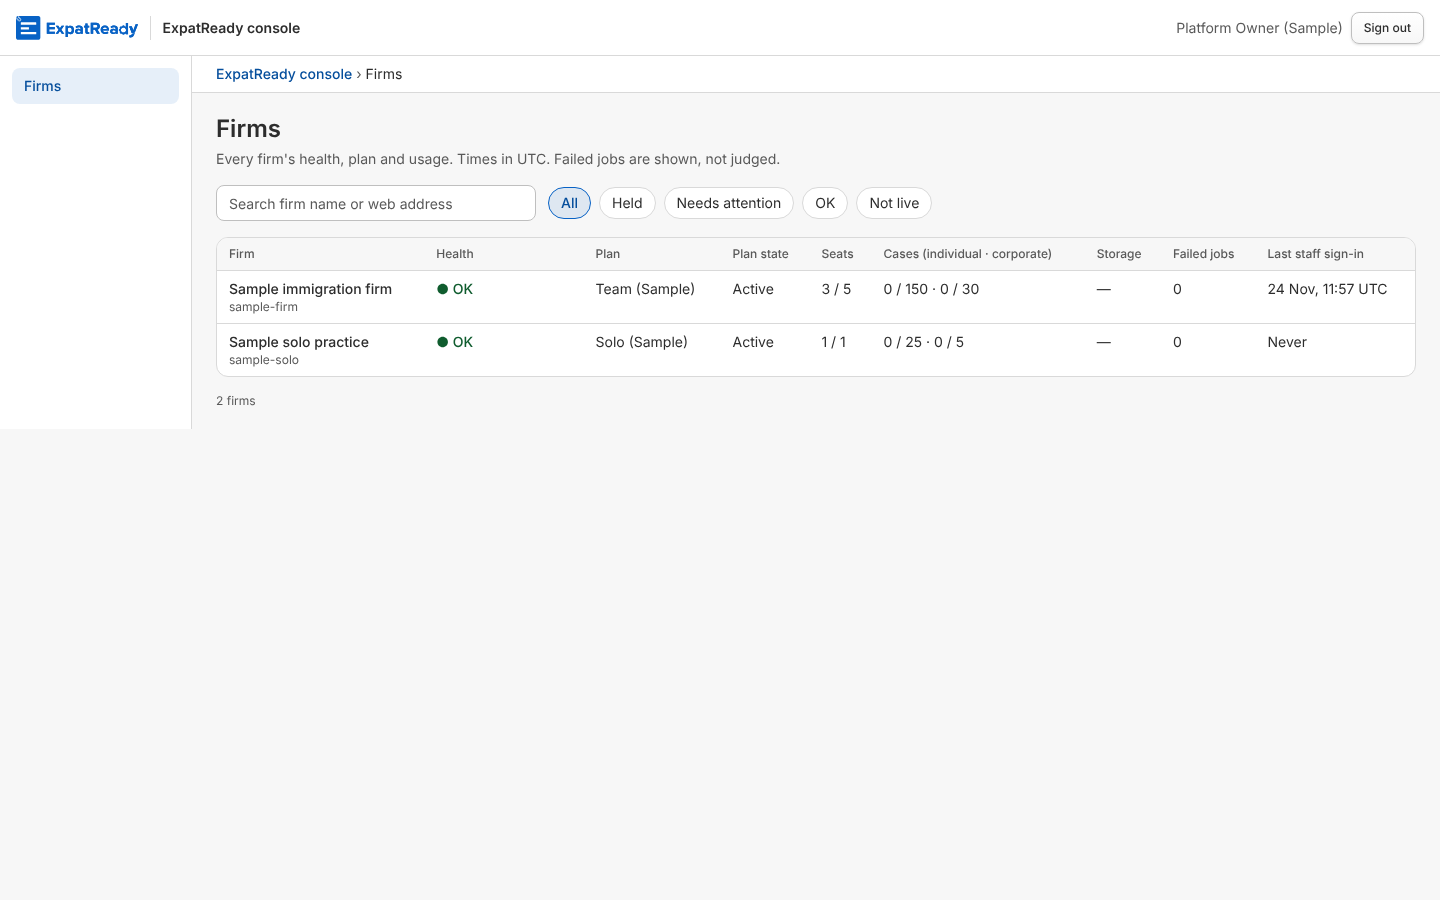
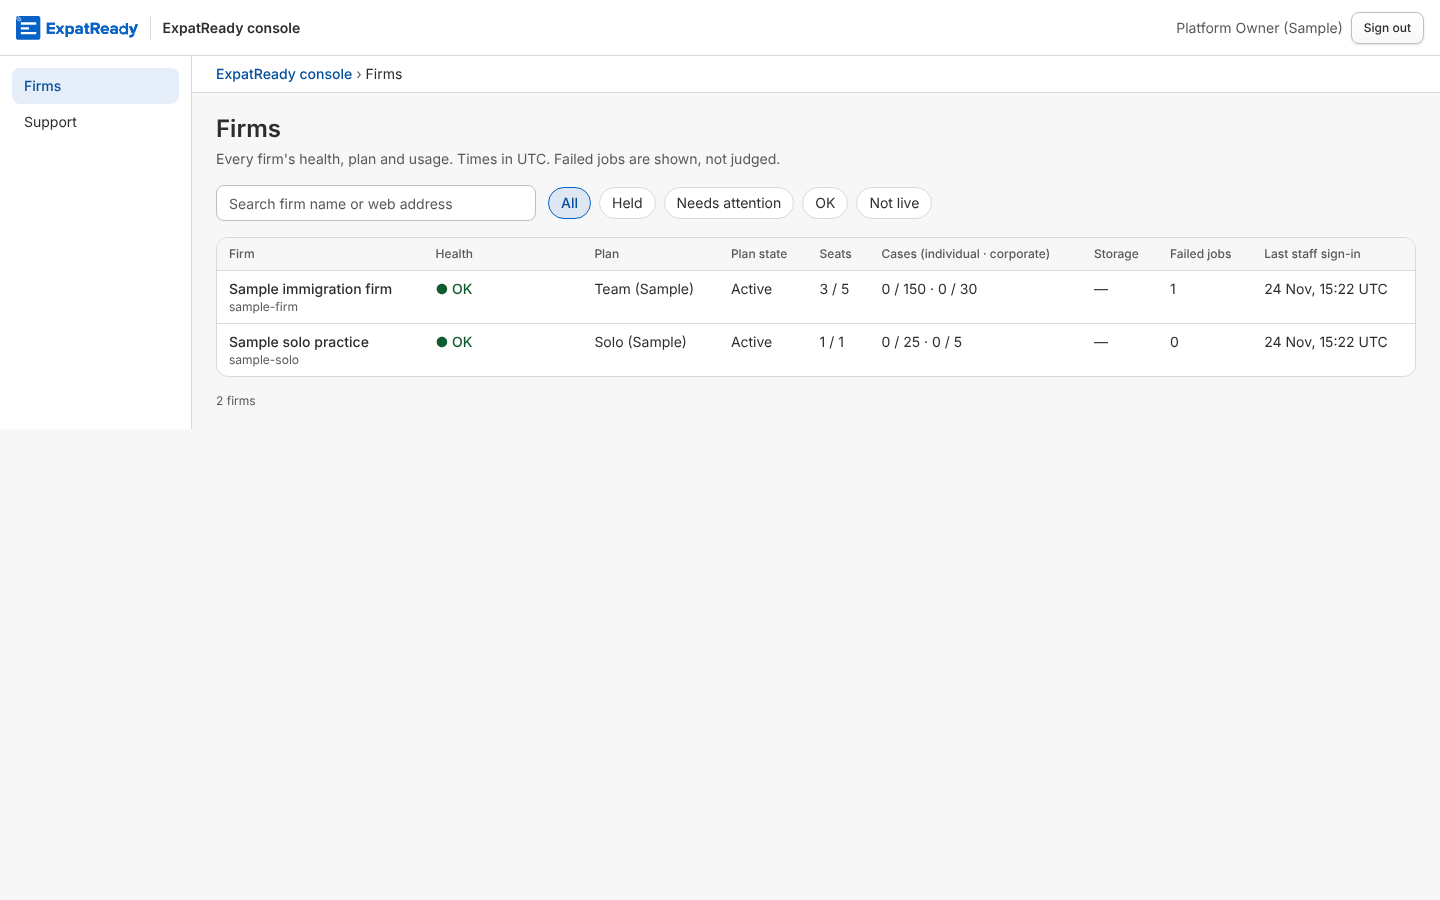
runtime: R1.93 — PF-17 part 4 PR C: our console's Support page and ticket panel (/system/support)
The queue in the server's order with each firm's name and live plan (Lead 15), status chips and a firm filter; a
row opens its ticket's side panel (thread in order, firm and plan in its header) with our reply, read-only on a
closed ticket or without the manage key; Support in the console's menu by system/support:list.
check_pf17_support_browser.ts 17/17 twice; check_pf17_console_browser 32/32; j_93 24/24; scan-logs clean.

Claude-Session: https://claude.ai/code/session_01MXNda7wnHWoWJS99ZAQcYL

diff --git a/ai-workers/problem-1-pathway-setup-and-form-filling/prototype/studio/web/src/modules/system/support-page.tsx b/ai-workers/problem-1-pathway-setup-and-form-filling/prototype/studio/web/src/modules/system/support-page.tsx
@@ -1,0 +1,116 @@
+// PF-17 part 4 PR C (R1.93; concept r2 §4d, §4e, BR-1, BR-5 to BR-7; SA-10 §3.2, §3.4; Lead 15 on #3225; j_93 W4): our
+// console's Support page. One queue of every firm's "?" tickets read from PF-17 part 2's `GET /api/system/support/tickets`
+// in the server's order (waiting on us first, the longest waiting first; the page never re-sorts), each row with its
+// firm's name and live plan (part 4's `firm.plan`, the Firms page's own source). Status chips (`?status=`), a firm filter
+// from a row's firm name (`?firm=`). A row opens the ticket's side panel (`?ticket=`, so it reopens from the address):
+// the thread in order and our reply (PF-18b's replyAsSupport through part 2's route), read-only on a closed ticket or
+// without the manage key. Internal notes, assignment and priority are not built (part 2).
+import * as React from "react";
+import { useSearchParams } from "react-router-dom";
+import { keepPreviousData, useQuery, useQueryClient } from "@tanstack/react-query";
+import { Button, Notice, Panel, Table, Textarea } from "@/components/ui/controls";
+import { cn } from "@/lib/utils";
+import { ageWords, momentWords, QueuePage, queueQuery, QueueTicket, STATUS_CHIPS, STATUS_WORDS, SUPPORT_COPY, SUPPORT_MANAGE_KEY, type QueueItem } from "./contract";
+import { SystemFrame, useSystemStaff } from "./frame";
+import { systemApi, SystemApiError, useSystemToken } from "./session";
+
+const fieldWords = (e: SystemApiError) => `${e.message}${e.problem.fields ? ` ${Object.entries(e.problem.fields).map(([k, v]) => `${k}: ${v}`).join("; ")}` : ""}`;
+
+function TicketPanel({ id, onClose, returnFocus }: { id: string | null; onClose: () => void; returnFocus: () => HTMLElement | null }) {
+  const token = useSystemToken(), me = useSystemStaff(), qc = useQueryClient();
+  const t = useQuery({ queryKey: ["sys", "ticket", id, token], enabled: !!token && !!id, retry: false, queryFn: async () => QueueTicket.parse(await systemApi(`/support/tickets/${id}`)) });
+  const [body, setBody] = React.useState(""), [busy, setBusy] = React.useState(false), [error, setError] = React.useState<string | null>(null);
+  React.useEffect(() => { setBody(""); setError(null); }, [id]);
+  const send = async (e: React.FormEvent) => {
+    e.preventDefault(); setBusy(true); setError(null);
+    try {
+      const after = QueueTicket.parse(await systemApi(`/support/tickets/${id}/replies`, { method: "POST", json: { body } }));
+      qc.setQueryData(["sys", "ticket", id, token], after); setBody("");
+      await qc.invalidateQueries({ queryKey: ["sys", "queue"] });   // the row follows (its status and last activity)
+    } catch (x) { setError(x instanceof SystemApiError ? fieldWords(x) : "Could not send the reply. Please try again."); }
+    finally { setBusy(false); }
+  };
+  const d = t.data, now = Date.now();
+  const canReply = me.keys.includes(SUPPORT_MANAGE_KEY);
+  return (
+    <Panel open={!!id} onOpenChange={(o) => { if (!o) onClose(); }} returnFocus={returnFocus} title={d?.subject ?? "Support ticket"}
+      description={d ? <span data-ticket-head>{d.firm.name} · {d.firm.plan?.name ?? SUPPORT_COPY.noPlan} · {STATUS_WORDS[d.status]} · {ageWords(d.createdAt, now)} old · raised on {d.page}</span> : undefined}>
+      {t.isError ? <Notice tone="danger" title="Not available"><span>{t.error instanceof SystemApiError ? t.error.message : SUPPORT_COPY.loadFailed}</span></Notice>
+        : !d ? <p role="status" className="text-sm text-text-muted">Loading the ticket…</p>
+          : <div className="flex flex-col gap-4">
+            <ol className="flex flex-col gap-3" aria-label="Messages">
+              {d.messages.map((m) => <li key={m.id} className={cn("rounded-lg border border-border p-3 text-sm", m.authorKind === "SUPPORT" && "bg-primary/5")}>
+                <p className="text-xs text-text-muted">{m.authorName ?? (m.authorKind === "SUPPORT" ? "ExpatReady support" : "A firm user")} · {momentWords(m.createdAt)}</p>
+                <p className="mt-1 whitespace-pre-wrap [overflow-wrap:anywhere]">{m.body}</p>
+                {m.files.length ? <p className="mt-1 text-xs text-text-muted">{m.files.length} {m.files.length === 1 ? "file" : "files"} attached</p> : null}</li>)}
+            </ol>
+            {d.status === "CLOSED" ? <Notice tone="info"><span data-reply-closed>{SUPPORT_COPY.closed}</span></Notice>
+              : !canReply ? <Notice tone="info"><span data-reply-no-manage>{SUPPORT_COPY.noManage}</span></Notice>
+                : <form className="flex flex-col gap-2" onSubmit={send} noValidate>
+                  <label htmlFor="sys-reply" className="text-sm font-medium">{SUPPORT_COPY.replyLabel}</label>
+                  <Textarea id="sys-reply" rows={4} value={body} onChange={(e) => setBody(e.target.value)} aria-invalid={error ? true : undefined} aria-describedby={error ? "sys-reply-error" : undefined} />
+                  {error ? <p id="sys-reply-error" role="alert" className="text-sm text-text-danger" data-reply-error>{error}</p> : null}
+                  <Button type="submit" busy={busy} className="self-end max-sm:min-h-11">Send reply</Button>
+                </form>}
+          </div>}
+    </Panel>
+  );
+}
+
+function SupportBody() {
+  const token = useSystemToken();
+  const [params, setParams] = useSearchParams();
+  const query = queueQuery(params);
+  const list = useQuery({ queryKey: ["sys", "queue", query, token], enabled: !!token, retry: false, placeholderData: keepPreviousData, queryFn: async () => QueuePage.parse(await systemApi(`/support/tickets${query}`)) });
+  const put = React.useCallback((k: string, v: string | null) => setParams((old) => { const p = new URLSearchParams(old); if (v) p.set(k, v); else p.delete(k); if (k !== "page" && k !== "ticket") p.delete("page"); return p; }), [setParams]);
+  const opener = React.useRef<HTMLElement | null>(null);
+  const status = params.get("status"), firm = params.get("firm"), ticket = params.get("ticket");
+  const d = list.data, now = Date.now();
+  if (!d && !list.isError) return <p role="status" className="text-sm text-text-muted" data-loading>Loading the support queue…</p>;
+  const refused = list.error instanceof SystemApiError ? list.error : null;
+  const title = <header><h1 className="text-2xl font-semibold">Support</h1>
+    <p className="mt-1 text-sm text-text-muted">Every firm's tickets, the longest waiting on us first. Times in UTC.</p></header>;
+  if (refused?.status === 403) return <div className="mx-auto flex max-w-7xl flex-col gap-4">{title}<Notice tone="danger" title="Not available"><span data-support-error>{refused.message}</span></Notice></div>;
+  const firmName = firm ? d?.tickets.find((t) => t.firm.id === firm)?.firm.name ?? "this firm" : null;
+  const pages = d ? Math.max(1, Math.ceil(d.total / d.pageSize)) : 1;
+  const open = (t: QueueItem) => (e: React.MouseEvent<HTMLElement>) => { opener.current = e.currentTarget; put("ticket", t.id); };
+  return (
+    <div className="mx-auto flex max-w-7xl flex-col gap-4">
+      {title}
+      <div role="group" aria-label="Status" className="flex flex-wrap gap-2">
+        {STATUS_CHIPS.map((c) => { const on = (c.value ?? null) === (status ?? null);
+          return <button key={c.label} type="button" aria-pressed={on} data-chip={c.value ?? "ALL"} onClick={() => put("status", c.value)}
+            className={cn("min-h-8 rounded-full border px-3 text-sm outline-none focus-visible:ring-[3px] focus-visible:ring-ring/50", on ? "border-primary bg-primary/10 font-medium text-text-link" : "border-border bg-surface-raised text-text")}>{c.label}</button>; })}
+        {firm ? <button type="button" onClick={() => put("firm", null)} className="min-h-8 rounded-full border border-primary bg-primary/10 px-3 text-sm text-text-link outline-none focus-visible:ring-[3px] focus-visible:ring-ring/50">Clear firm: {firmName} ×</button> : null}
+      </div>
+      {list.isFetching && d ? <p role="status" className="sr-only">Updating the support queue…</p> : null}
+      {list.isError ? (refused && refused.status < 500
+        ? <Notice tone="danger" title={refused.problem.title ?? "Not available"} action={<Button variant="outline" size="sm" onClick={() => setParams(new URLSearchParams())}>Clear filters</Button>}><span data-support-error>{fieldWords(refused)}</span></Notice>
+        : <Notice tone="danger" title="Not available" action={<Button variant="outline" size="sm" onClick={() => void list.refetch()}>Retry</Button>}><span data-support-error>{refused ? refused.message : SUPPORT_COPY.loadFailed}</span></Notice>)
+        : !d ? null
+          : !d.tickets.length ? <p data-support-empty className="rounded-xl border border-dashed border-border px-4 py-8 text-center text-sm text-text-muted">{SUPPORT_COPY.empty}</p>
+            : <Table label="Support tickets" head={["Subject", "Firm", "Status", "Raised by", "Page", "Age", "Last activity", "Messages"]}>
+              {d.tickets.map((t) => <tr key={t.id} data-ticket-row={t.id}>
+                <td className="min-w-48"><button type="button" className="text-left font-medium text-text-link hover:underline [overflow-wrap:anywhere]" onClick={open(t)}>{t.subject}</button></td>
+                <td className="min-w-40"><a href={`/system/support?firm=${t.firm.id}`} onClick={(e) => { e.preventDefault(); put("firm", t.firm.id); }} className="text-text-link hover:underline [overflow-wrap:anywhere]">{t.firm.name}</a>
+                  <span className="block text-xs text-text-muted">{t.firm.plan?.name ?? SUPPORT_COPY.noPlan}</span></td>
+                <td className={cn("whitespace-nowrap", t.status === "WAITING_ON_FIRM" && "font-medium")}>{STATUS_WORDS[t.status]}</td>
+                <td className="[overflow-wrap:anywhere]">{t.raisedByName ?? "—"}</td>
+                <td className="[overflow-wrap:anywhere] text-xs">{t.page}</td>
+                <td className="whitespace-nowrap">{ageWords(t.createdAt, now)}</td>
+                <td className="whitespace-nowrap">{ageWords(t.updatedAt, now)} ago</td>
+                <td>{t.messages}</td>
+              </tr>)}
+            </Table>}
+      {d && pages > 1 && d.tickets.length ? <nav aria-label="Pages" className="flex items-center gap-3 text-sm">
+        <Button variant="outline" size="sm" disabled={d.page <= 1} onClick={() => put("page", String(d.page - 1))}>Previous</Button>
+        <span>Page {d.page} of {pages} · {d.total} tickets</span>
+        <Button variant="outline" size="sm" disabled={d.page >= pages} onClick={() => put("page", String(d.page + 1))}>Next</Button></nav> : null}
+      <TicketPanel id={ticket} onClose={() => put("ticket", null)} returnFocus={() => opener.current} />
+    </div>
+  );
+}
+
+export function SupportPage() {
+  return <SystemFrame crumbs={[{ label: "Support" }]}><SupportBody /></SystemFrame>;
+}

diff --git a/ai-workers/problem-1-pathway-setup-and-form-filling/prototype/studio/tests/check_pf17_support_browser.ts b/ai-workers/problem-1-pathway-setup-and-form-filling/prototype/studio/tests/check_pf17_support_browser.ts
@@ -102,14 +102,14 @@ try {
   // B4b chips and the firm filter
   await p4.getByRole("button", { name: "Waiting on firm", exact: true }).click();
   await p4.waitForURL(/status=WAITING_ON_FIRM/, { timeout: 10_000 }).catch(() => undefined);
-  await rowOf(p4, `Sample ${run} two`).waitFor({ timeout: 10_000 }).catch(() => undefined);
+  await rowOf(p4, `Sample ${run} one`).waitFor({ state: "detached", timeout: 10_000 }).catch(() => undefined);   // the last answer stays until the next arrives
   ok("PF-17 B4b pass: the \"Waiting on firm\" chip narrows to firm B's ticket (?status=WAITING_ON_FIRM), pressed state announced",
     (await textOf(p4, `Sample ${run} two`)) !== "" && (await textOf(p4, `Sample ${run} one`)) === "" && (await p4.getByRole("button", { name: "Waiting on firm", exact: true }).getAttribute("aria-pressed")) === "true");
   await p4.getByRole("button", { name: "All", exact: true }).click();
   await rowOf(p4, `Sample ${run} one`).waitFor({ timeout: 10_000 }).catch(() => undefined);
   await rowOf(p4, `Sample ${run} one`).getByRole("link", { name: nameA }).click();
   await p4.waitForURL(new RegExp(`firm=${A}`), { timeout: 10_000 }).catch(() => undefined);
-  await p4.waitForTimeout(500);
+  await rowOf(p4, `Sample ${run} two`).waitFor({ state: "detached", timeout: 10_000 }).catch(() => undefined);
   ok("PF-17 B4b pass: the firm's name on a row filters by that firm (?firm=), and \"Clear firm\" shows its name",
     (await textOf(p4, `Sample ${run} one`)) !== "" && (await textOf(p4, `Sample ${run} two`)) === "" && (await p4.getByRole("button", { name: new RegExp(`Clear firm.*${nameA}`) }).count()) === 1);
   await p4.goto(`${BASE}/system/support?status=NOPE`);
@@ -121,7 +121,7 @@ try {
   await rowOf(p4, `Sample ${run} one`).waitFor({ timeout: 15_000 }).catch(() => undefined);
   await rowOf(p4, `Sample ${run} one`).getByRole("button", { name: new RegExp(`Sample ${run} one`) }).click();
   const panel = p4.getByRole("dialog");
-  const opened = await panel.waitFor({ timeout: 10_000 }).then(() => true, () => false);
+  const opened = await panel.locator("[data-ticket-head]").waitFor({ timeout: 10_000 }).then(() => true, () => false);
   const head = opened ? (await panel.innerText()).replace(/\s+/g, " ") : "";
   ok("PF-17 B5 pass (SA-10 §3.4): a row opens the ticket's panel: its subject, firm A's name and plan, status and the firm's message",
     opened && head.includes(`Sample ${run} one`) && head.includes(nameA) && head.includes(itemA?.firm?.plan?.name ?? "—") && head.includes("New") && head.includes("shows two seats"), head.slice(0, 300));
@@ -132,13 +132,13 @@ try {
   ok("PF-17 B5 fail (BR-7): a blank reply shows the API's words on the box and stores nothing", blankErr !== "" && msgs() === 1, { blankErr, msgs: msgs() });
   await panel.getByLabel(SUPPORT_COPY.replyLabel).fill(`Sample ${run}: thanks, we are looking at your seats.`);
   await panel.getByRole("button", { name: "Send reply" }).click();
-  await panel.getByText(`Sample ${run}: thanks`).waitFor({ timeout: 10_000 }).catch(() => undefined);
+  await p4.waitForFunction((w) => { const d = document.querySelector('[role="dialog"]'); return !!d && d.textContent!.includes(w) && d.textContent!.includes("Waiting on firm"); }, `Sample ${run}: thanks`, { timeout: 10_000 }).catch(() => undefined);
   const after = (await panel.innerText()).replace(/\s+/g, " ");
   ok("PF-17 B5 pass: the reply shows in the thread as ExpatReady support, the ticket is then Waiting on firm, stored once as ours (SUPPORT)",
     after.includes(`Sample ${run}: thanks`) && after.includes("ExpatReady support") && after.includes("Waiting on firm")
       && sql(`select status from platform_support_ticket where id = '${tA}'`) === "WAITING_ON_FIRM" && sql(`select count(*) from platform_support_message where ticket_id = '${tA}' and author_kind = 'SUPPORT'`) === "1", after.slice(0, 300));
   await p4.keyboard.press("Escape");
-  await rowOf(p4, `Sample ${run} one`).waitFor({ timeout: 10_000 }).catch(() => undefined);
+  await rowOf(p4, `Sample ${run} one`).filter({ hasText: "Waiting on firm" }).waitFor({ timeout: 10_000 }).catch(() => undefined);
   ok("PF-17 B5 pass: closing the panel, the row now reads Waiting on firm (the list follows the reply)", (await textOf(p4, `Sample ${run} one`)).includes("Waiting on firm"));
   // B5b a closed ticket
   await p4.goto(`${BASE}/system/support?ticket=${tC}`);

diff --git a/ai-workers/problem-1-pathway-setup-and-form-filling/prototype/studio/web/src/modules/system/frame.tsx b/ai-workers/problem-1-pathway-setup-and-form-filling/prototype/studio/web/src/modules/system/frame.tsx
@@ -9,7 +9,7 @@ import { NavLink } from "react-router-dom";
 import { Frame, useWhere, type Crumb } from "@/components/frame";
 import { Button, Field, Input, Notice } from "@/components/ui/controls";
 import { cn } from "@/lib/utils";
-import { COPY, endedWords, FIRM_READ_KEY, type SystemMe } from "./contract";
+import { COPY, endedWords, FIRM_READ_KEY, SUPPORT_LIST_KEY, type SystemMe } from "./contract";
 import { endSystemSession, SystemApiError, systemSignIn, useSystemMe, useSystemSessionEnd, useSystemToken } from "./session";
 
 /** Set by a sign-in on the card: the next page moves the focus to its heading once its first answer is in (review #9). */
@@ -20,7 +20,7 @@ const MeCtx = React.createContext<SystemMe | null>(null);
 /** The signed-in staff member, inside a console page. */
 export const useSystemStaff = () => React.useContext(MeCtx)!;
 
-const SECTIONS = [{ path: "/system/firms", label: "Firms", key: FIRM_READ_KEY }];
+const SECTIONS = [{ path: "/system/firms", label: "Firms", key: FIRM_READ_KEY }, { path: "/system/support", label: "Support", key: SUPPORT_LIST_KEY }];
 
 function SignInCard({ because }: { because: string | null }) {
   const [email, setEmail] = React.useState(""), [busy, setBusy] = React.useState(false), [error, setError] = React.useState<string | null>(null);

diff --git a/ai-workers/problem-1-pathway-setup-and-form-filling/prototype/studio/web/src/modules/system/routes.tsx b/ai-workers/problem-1-pathway-setup-and-form-filling/prototype/studio/web/src/modules/system/routes.tsx
@@ -1,10 +1,12 @@
 // PF-17 part 4 PR B (R1.93; concept r2 §4): our console's pages, under the module's own word /system (PF-1's seam).
-// /system opens Firms.
+// /system opens Firms; PR C adds Support.
 import { Navigate } from "react-router-dom";
 import type { ModuleRoute } from "@/modules";
 import { FirmsPage } from "./firms-page";
+import { SupportPage } from "./support-page";
 
 export const routes: ModuleRoute[] = [
   { path: "/system", element: <Navigate to="/system/firms" replace /> },
   { path: "/system/firms", element: <FirmsPage /> },
+  { path: "/system/support", element: <SupportPage /> },
 ];

diff --git a/ai-workers/problem-1-pathway-setup-and-form-filling/prototype/studio/web/src/MODULE.rows/PF-17-4.md b/ai-workers/problem-1-pathway-setup-and-form-filling/prototype/studio/web/src/MODULE.rows/PF-17-4.md
@@ -1,2 +1,2 @@
-Entry points: PF-17 part 4 (R1.93): `modules/system/routes.tsx` (`/system` → `/system/firms`, `/system/firms`); `SystemFrame`, `useSystemStaff` (`modules/system/frame.tsx`); `systemApi`, `useSystemToken`, `useSystemMe`, `systemSignIn`, `endSystemSession` (`modules/system/session.ts`); the console's words (`modules/system/contract.ts`).
-Tests: tests/check_pf17_console_browser.ts (R1.93: the console's sign-in card, session, Firms page and the wall both ways)
+Entry points: PF-17 part 4 (R1.93): `modules/system/routes.tsx` (`/system` → `/system/firms`, `/system/firms`, `/system/support`); `SystemFrame`, `useSystemStaff` (`modules/system/frame.tsx`); `systemApi`, `useSystemToken`, `useSystemMe`, `systemSignIn`, `endSystemSession` (`modules/system/session.ts`); the console's words (`modules/system/contract.ts`); `SupportPage` and its ticket panel (`modules/system/support-page.tsx`).
+Tests: tests/check_pf17_console_browser.ts (R1.93: the console's sign-in card, session, Firms page and the wall both ways), tests/check_pf17_support_browser.ts (R1.93: the Support page, the ticket panel and our reply)
